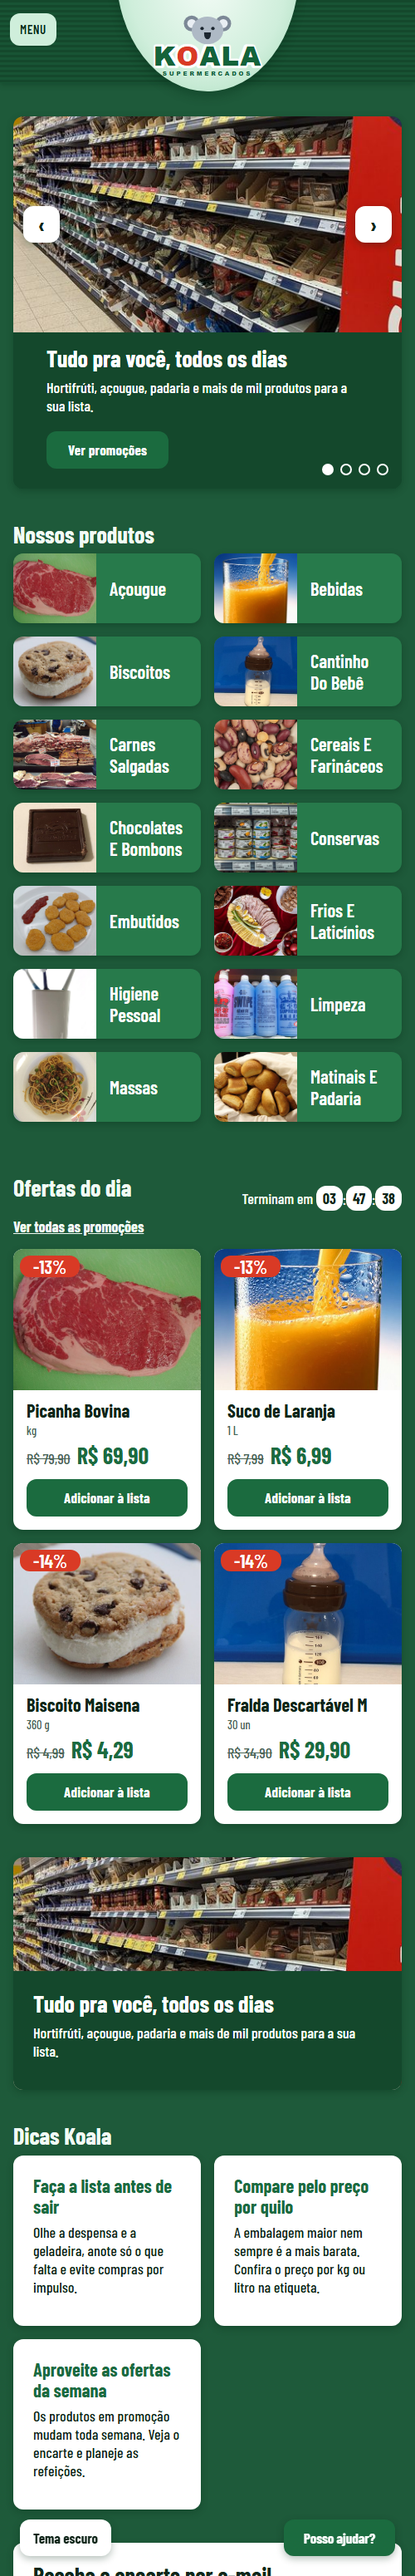
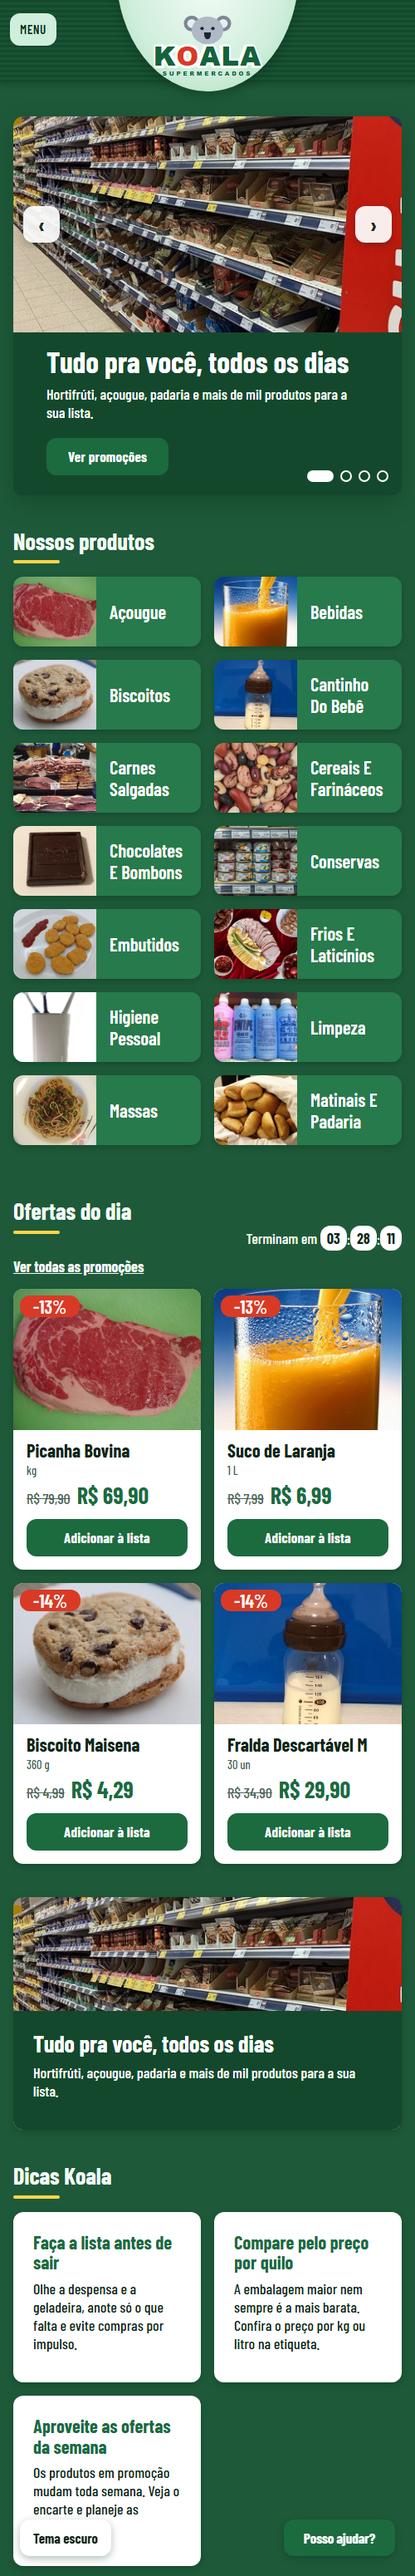
loja-koala: acabamento visual, hover nos cards e prints atualizados

diff --git a/loja-koala/css/estilos.css b/loja-koala/css/estilos.css
@@ -124,7 +124,7 @@ section { margin-bottom: var(--espaco-10); }
 .qtd { display: inline-flex; align-items: center; gap: var(--espaco-1); }
 .qtd button { width: 30px; height: 30px; border-radius: var(--raio); border: 2px solid var(--cor-borda); background: var(--cor-superficie); color: var(--cor-texto); font-size: var(--fonte-md); cursor: pointer; }
 .qtd output { min-width: 26px; text-align: center; font-weight: 700; }
-.progresso { height: 12px; background: var(--cor-superficie-2); border: 1px solid var(--cor-borda); }
+.progresso { height: 12px; background: var(--cor-superficie-2); border: 1px solid var(--cor-borda); border-radius: var(--raio); overflow: hidden; }
 .progresso i { display: block; height: 100%; width: 0; background: var(--cor-sucesso); transition: width .3s; }
 .resumo dl { margin: var(--espaco-3) 0; display: grid; grid-template-columns: 1fr auto; gap: var(--espaco-2); }
 .resumo dd { margin: 0; font-weight: 700; text-align: right; }
@@ -132,7 +132,7 @@ section { margin-bottom: var(--espaco-10); }
 .acoes { display: flex; flex-wrap: wrap; gap: var(--espaco-2); margin-top: var(--espaco-3); }
 
 /* avisos, toast, abas */
-.aviso { padding: var(--espaco-3) var(--espaco-4); border-left: 6px solid var(--cor-primaria); background: var(--cor-superficie-2); color: var(--cor-texto); font-weight: 600; }
+.aviso { padding: var(--espaco-3) var(--espaco-4); border-radius: var(--raio); border-left: 6px solid var(--cor-primaria); background: var(--cor-superficie-2); color: var(--cor-texto); font-weight: 600; }
 .aviso--erro { background: var(--cor-erro-fundo); border-color: var(--cor-erro); color: var(--cor-erro); }
 .aviso--sucesso { background: var(--cor-sucesso-fundo); border-color: var(--cor-sucesso); color: var(--cor-sucesso); }
 .aviso[hidden] { display: none; }
@@ -182,6 +182,27 @@ section { margin-bottom: var(--espaco-10); }
 .amostra { padding: var(--espaco-10) var(--espaco-2) var(--espaco-2); font-size: var(--fonte-sm); font-weight: 700; border: 1px solid var(--cor-borda); }
 
 /* responsivo: testado em 360, 768 e 1280 px */
+/* acabamento: movimento suave, hover nos cards e carrossel mais elegante */
+.card, .botao, .chip, .nav > a, .nav > .menu > button, .carrossel__seta { transition: transform .18s ease, box-shadow .18s ease, background .15s, border-color .15s; }
+.card:hover { transform: translateY(-3px); box-shadow: 0 8px 18px var(--cor-sombra); }
+.card--vertical img { transition: transform .35s ease; }
+.card--vertical { overflow: hidden; }
+.card--vertical:hover img { transform: scale(1.04); }
+.botao:active { transform: scale(.97); }
+.chip:hover { background: var(--cor-texto-fundo); color: var(--cor-fundo); }
+h1.sobre-fundo, .secao-topo h2, #dicas h2 { position: relative; padding-bottom: var(--espaco-2); }
+h1.sobre-fundo::after, .secao-topo h2::after, #dicas h2::after { content: ""; display: block; width: 56px; height: 4px; margin-top: var(--espaco-2); border-radius: var(--raio); background: var(--cor-rodape-destaque); }
+.carrossel { box-shadow: 0 10px 28px var(--cor-sombra); }
+.carrossel__texto h2 { font-size: var(--fonte-xl); }
+.carrossel__seta { opacity: .92; }
+.carrossel__seta:hover { transform: scale(1.08); opacity: 1; }
+.carrossel__pontos button { transition: width .25s, background .2s; }
+.carrossel__pontos button[aria-current="true"] { width: 32px; }
+.faixa-loja img { transition: transform .6s ease; }
+.faixa-loja:hover img { transform: scale(1.03); }
+.painel { transition: transform .18s ease, box-shadow .18s ease; }
+.dicas .painel:hover { transform: translateY(-3px); box-shadow: 0 8px 18px var(--cor-sombra); }
+
 @media (max-width: 1200px) {
   .menu-btn { display: inline-flex; }
   .cabecalho { height: 100px; }
@@ -217,5 +238,5 @@ section { margin-bottom: var(--espaco-10); }
   .flutuante--ajuda { right: var(--espaco-2); bottom: var(--espaco-2); }
   .flutuante--tema { left: var(--espaco-2); bottom: var(--espaco-2); }
 }
-@media (prefers-reduced-motion: reduce) { * { transition: none !important; animation: none !important; scroll-behavior: auto !important; } }
+@media (prefers-reduced-motion: reduce) { .card:hover, .dicas .painel:hover, .card--vertical:hover img, .faixa-loja:hover img { transform: none; } * { transition: none !important; animation: none !important; scroll-behavior: auto !important; } }
 @media print { .cabecalho, .rodape, .flutuante { display: none; } body { background: none; } }

diff --git a/loja-koala/README.md b/loja-koala/README.md
@@ -31,6 +31,7 @@ Não precisa instalar nada.
 - **Carrossel de destaques** na página inicial: 4 slides com foto real, troca automática a cada 5 s, setas, bolinhas, teclado (← →) e toque no celular. Pausa quando o mouse ou o foco está em cima e respeita `prefers-reduced-motion`.
 - **Bordas arredondadas:** o raio passou de 2 px (quase reto) para **12 px** em `tokens.css` (`--raio`). Como botões, cards, campos, menu, etiquetas e carrossel usam `var(--raio)`, tudo que era quadrado ficou arredondado de uma vez.
 - **Cor mais vendedora:** do azul-céu para **verde escuro** (sugestão recebida). Mudou só em `tokens.css` (claro e escuro) e nos SVGs do logo e do app. Os preços continuam em verde, as ofertas em vermelho e o foco do teclado em amarelo.
+- **Acabamento:** cards sobem e as fotos dão um leve zoom ao passar o mouse, títulos com traço amarelo, sombras mais suaves, barra de progresso e avisos também arredondados (movimento desligado para quem usa `prefers-reduced-motion`).
 - **Publicação** na Vercel (projeto `koala-supermercados`).
 
 ## Prints
